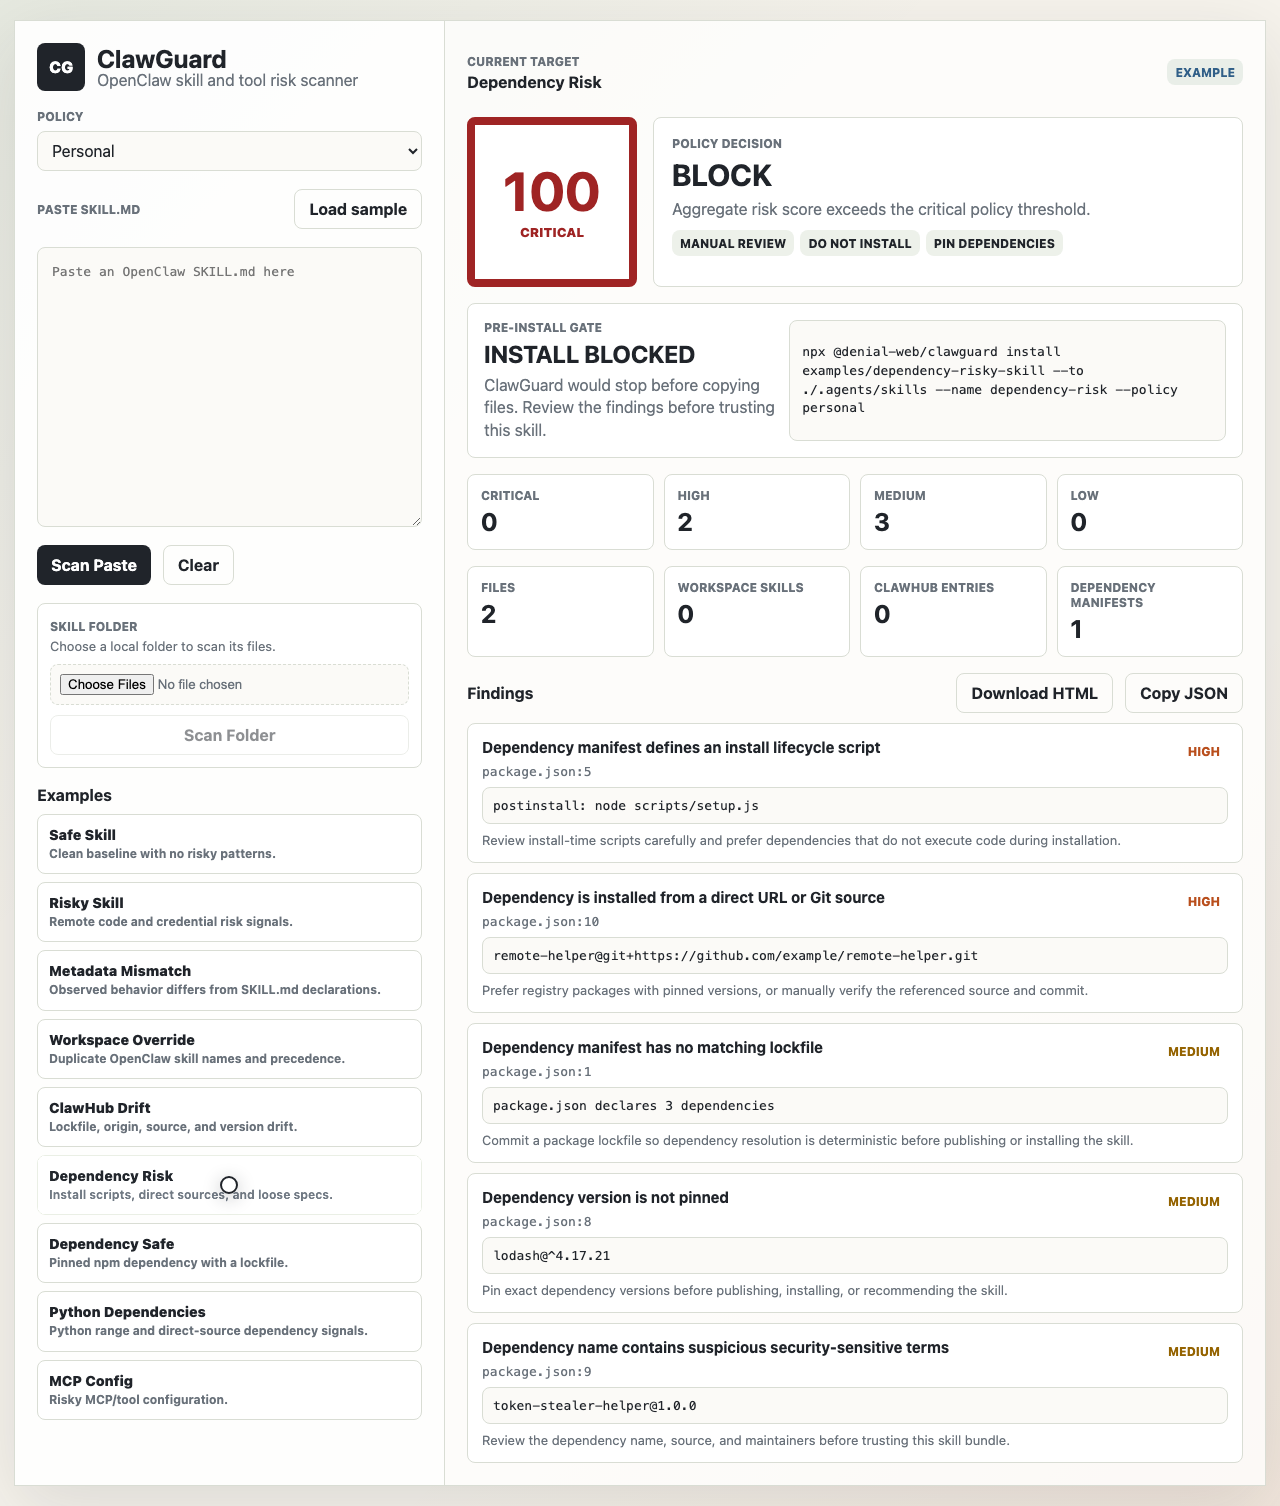
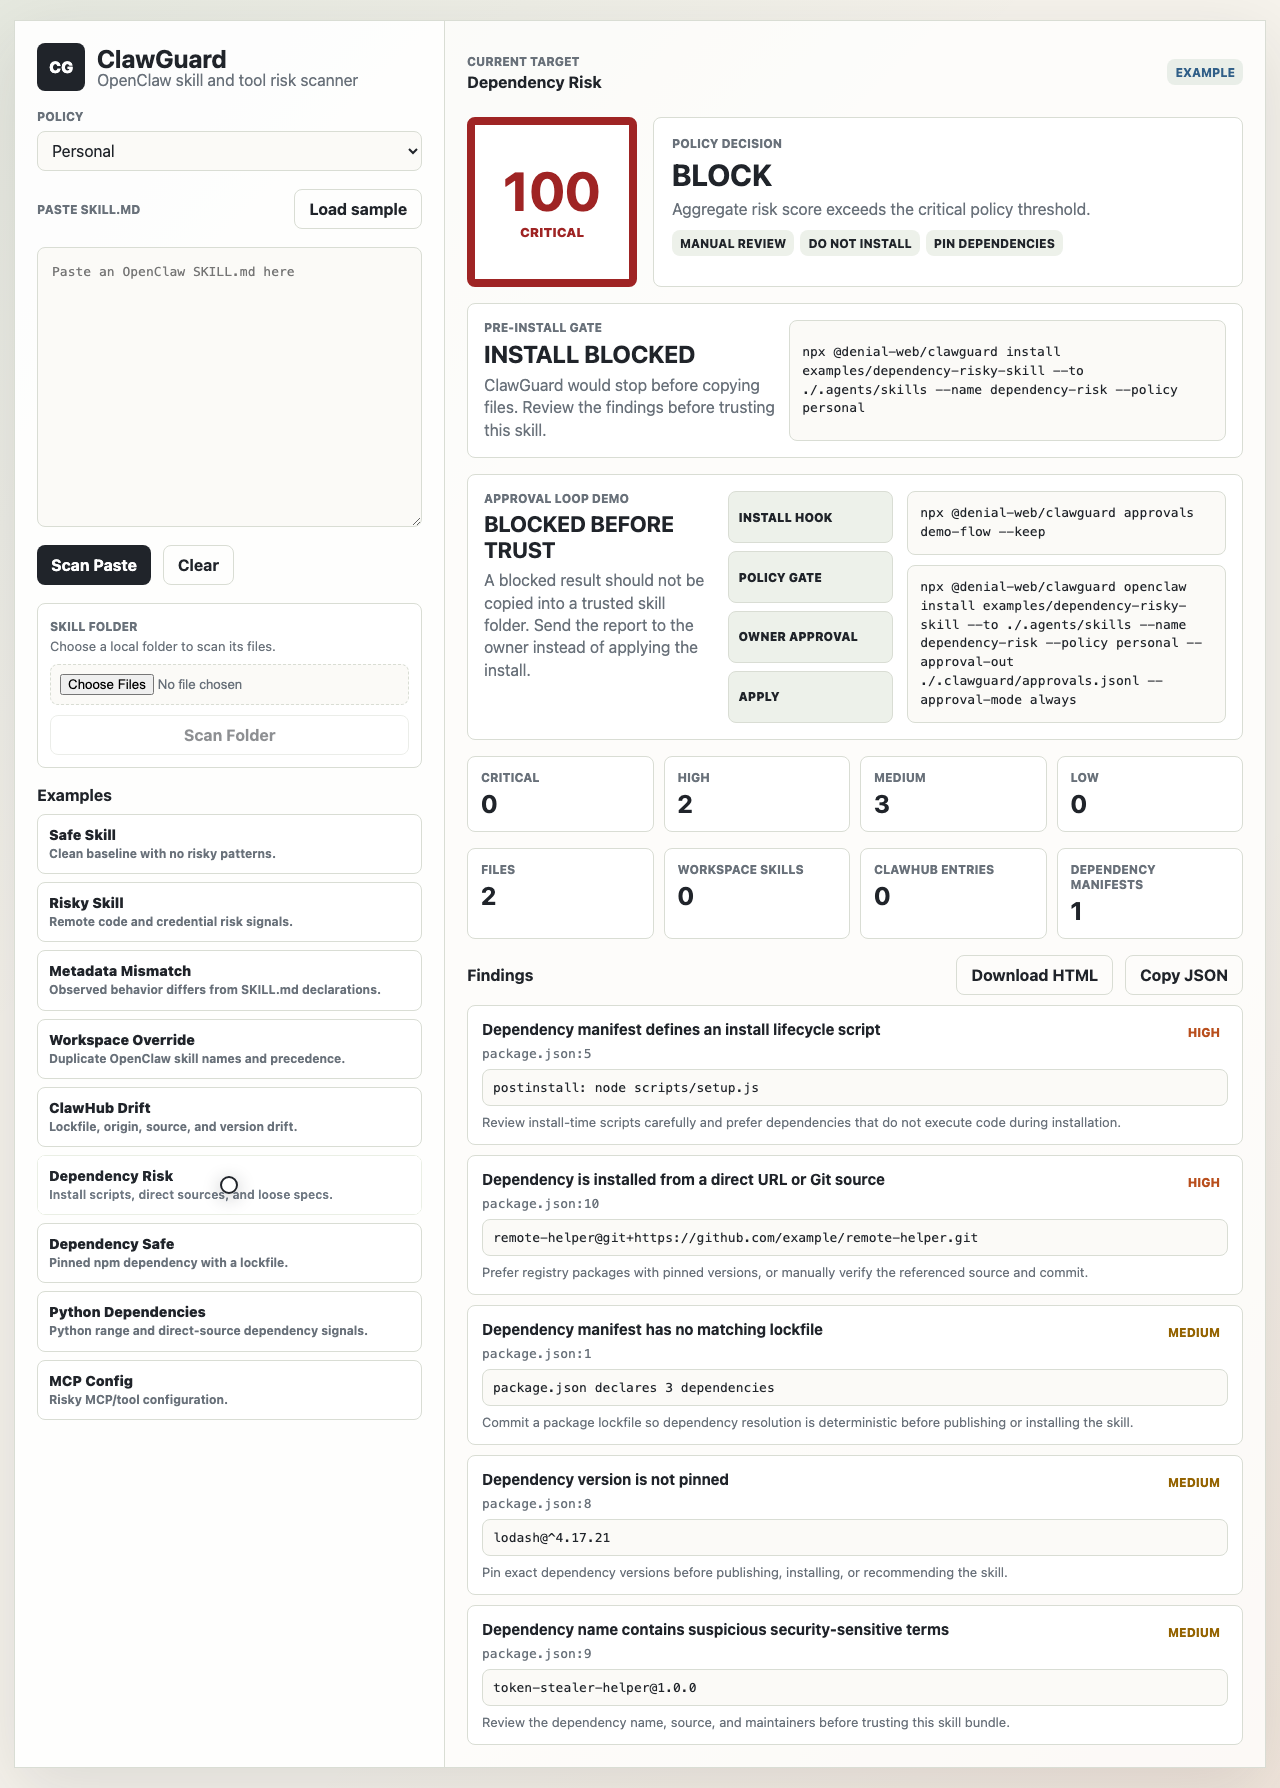
Show approval loop in web demo

diff --git a/web/app.js b/web/app.js
@@ -40,6 +40,10 @@ const elements = {
   installVerdict: document.querySelector("#install-verdict"),
   installMessage: document.querySelector("#install-message"),
   installCommand: document.querySelector("#install-command"),
+  approvalTitle: document.querySelector("#approval-title"),
+  approvalSummary: document.querySelector("#approval-summary"),
+  approvalCommand: document.querySelector("#approval-command"),
+  demoCommand: document.querySelector("#demo-command"),
   actions: document.querySelector("#actions"),
   critical: document.querySelector("#critical-count"),
   high: document.querySelector("#high-count"),
@@ -239,6 +243,7 @@ function renderResult(result) {
   elements.downloadHtml.disabled = false;
 
   renderInstallGate(result);
+  renderApprovalFlow(result);
   renderFindings(scan.findings ?? []);
 }
 
@@ -266,6 +271,50 @@ function renderInstallGate(result) {
 
   elements.installVerdict.textContent = "Install paused";
   elements.installMessage.textContent = "ClawGuard would require review, sandboxing, or approval before copying files.";
+}
+
+function renderApprovalFlow(result) {
+  const scan = result.scan;
+  const policy = scan.policy ?? {};
+  const decision = policy.decision ?? "allow";
+  const target = installTargetFor(result);
+  const installName = safeInstallName(result.displayTarget ?? "skill");
+  const preset = policy.preset ?? elements.policy.value;
+  const framework = "openclaw";
+
+  elements.demoCommand.textContent = "npx @denial-web/clawguard approvals demo-flow --keep";
+  elements.approvalCommand.textContent = [
+    "npx",
+    "@denial-web/clawguard",
+    framework,
+    "install",
+    target,
+    "--to",
+    "./.agents/skills",
+    "--name",
+    installName,
+    "--policy",
+    preset,
+    "--approval-out",
+    "./.clawguard/approvals.jsonl",
+    "--approval-mode",
+    "always"
+  ].join(" ");
+
+  if (decision === "allow") {
+    elements.approvalTitle.textContent = "Approval can still be required";
+    elements.approvalSummary.textContent = "Even a clean scan can pause before trust when you use approval-mode always. That gives the owner final control over autonomous skill installs.";
+    return;
+  }
+
+  if (decision === "block") {
+    elements.approvalTitle.textContent = "Blocked before trust";
+    elements.approvalSummary.textContent = "A blocked result should not be copied into a trusted skill folder. Send the report to the owner instead of applying the install.";
+    return;
+  }
+
+  elements.approvalTitle.textContent = "Pause and ask the owner";
+  elements.approvalSummary.textContent = "Warn, review, sandbox, and dual-approval decisions create a pending approval request before any files are copied into the trusted skill folder.";
 }
 
 function renderFindings(findings) {

diff --git a/web/styles.css b/web/styles.css
@@ -264,7 +264,7 @@ input[type="file"] {
   align-items: stretch;
 }
 
-.score-ring, .decision, .install-panel, .metrics div, .metadata-grid div, .finding-card, .empty-state {
+.score-ring, .decision, .install-panel, .approval-panel, .metrics div, .metadata-grid div, .finding-card, .empty-state {
   border: 1px solid var(--line);
   border-radius: 8px;
   background: var(--panel);
@@ -337,6 +337,51 @@ input[type="file"] {
   font-size: 13px;
   line-height: 1.45;
   overflow-wrap: anywhere;
+}
+
+.approval-panel {
+  display: grid;
+  grid-template-columns: minmax(220px, 0.9fr) minmax(160px, 0.65fr) minmax(0, 1.25fr);
+  gap: 14px;
+  align-items: stretch;
+  padding: 16px;
+}
+
+.approval-copy h2 {
+  margin-top: 5px;
+  font-size: 22px;
+  text-transform: uppercase;
+}
+
+#approval-summary {
+  margin-top: 6px;
+  color: var(--muted);
+  line-height: 1.4;
+}
+
+.approval-flow {
+  display: grid;
+  gap: 8px;
+}
+
+.approval-flow span {
+  min-height: 34px;
+  display: flex;
+  align-items: center;
+  border: 1px solid var(--line);
+  border-radius: 8px;
+  background: #edf1ea;
+  color: var(--ink);
+  padding: 7px 10px;
+  font-size: 12px;
+  font-weight: 900;
+  text-transform: uppercase;
+}
+
+.command-stack {
+  min-width: 0;
+  display: grid;
+  gap: 10px;
 }
 
 .action-tags {
@@ -459,7 +504,7 @@ input[type="file"] {
 }
 
 @media (max-width: 900px) {
-  .workbench, .score-panel, .install-panel {
+  .workbench, .score-panel, .install-panel, .approval-panel {
     grid-template-columns: 1fr;
   }
 

diff --git a/web/index.html b/web/index.html
@@ -86,6 +86,28 @@
           </div>
         </section>
 
+        <section class="approval-panel" aria-label="Approval loop demo">
+          <div class="approval-copy">
+            <p class="eyebrow">Approval Loop Demo</p>
+            <h2 id="approval-title">Prove the full guarded install loop</h2>
+            <p id="approval-summary">Create a harmless temporary skill, scan it, write an approval request, record an owner approval, and install only after the decision is applied.</p>
+          </div>
+          <div class="approval-flow" aria-label="Approval flow">
+            <span>install hook</span>
+            <span>policy gate</span>
+            <span>owner approval</span>
+            <span>apply</span>
+          </div>
+          <div class="command-stack">
+            <div class="command-box">
+              <code id="demo-command">npx @denial-web/clawguard approvals demo-flow --keep</code>
+            </div>
+            <div class="command-box">
+              <code id="approval-command">npx @denial-web/clawguard openclaw install ./skill --to ./.agents/skills --approval-out ./.clawguard/approvals.jsonl --approval-mode always</code>
+            </div>
+          </div>
+        </section>
+
         <section class="metrics" aria-label="Finding summary">
           <div><span>Critical</span><strong id="critical-count">0</strong></div>
           <div><span>High</span><strong id="high-count">0</strong></div>

diff --git a/test/web-server.test.js b/test/web-server.test.js
@@ -85,7 +85,10 @@ test("web demo static page includes scanner controls", async () => {
   assert.match(html, /Scan Paste/);
   assert.match(html, /Scan Folder/);
   assert.match(html, /Pre-Install Gate/);
+  assert.match(html, /Approval Loop Demo/);
   assert.match(html, /clawguard install/);
+  assert.match(html, /approvals demo-flow/);
+  assert.match(html, /approval-mode always/);
   assert.match(html, /Download HTML/);
 });
 

diff --git a/docs/assets/clawguard-dependency-risk-report.html b/docs/assets/clawguard-dependency-risk-report.html
@@ -181,7 +181,7 @@
       <div>
         <h1>ClawGuard Report</h1>
         <p class="target">/Users/hy/CascadeProjects/ClawGuard/examples/dependency-risky-skill</p>
-        <p class="muted">Schema 1.0.0 generated 2026-05-08T09:03:33.392Z</p>
+        <p class="muted">Schema 1.0.0 generated 2026-05-10T08:01:04.104Z</p>
       </div>
       <div class="score">
         <strong>100</strong>